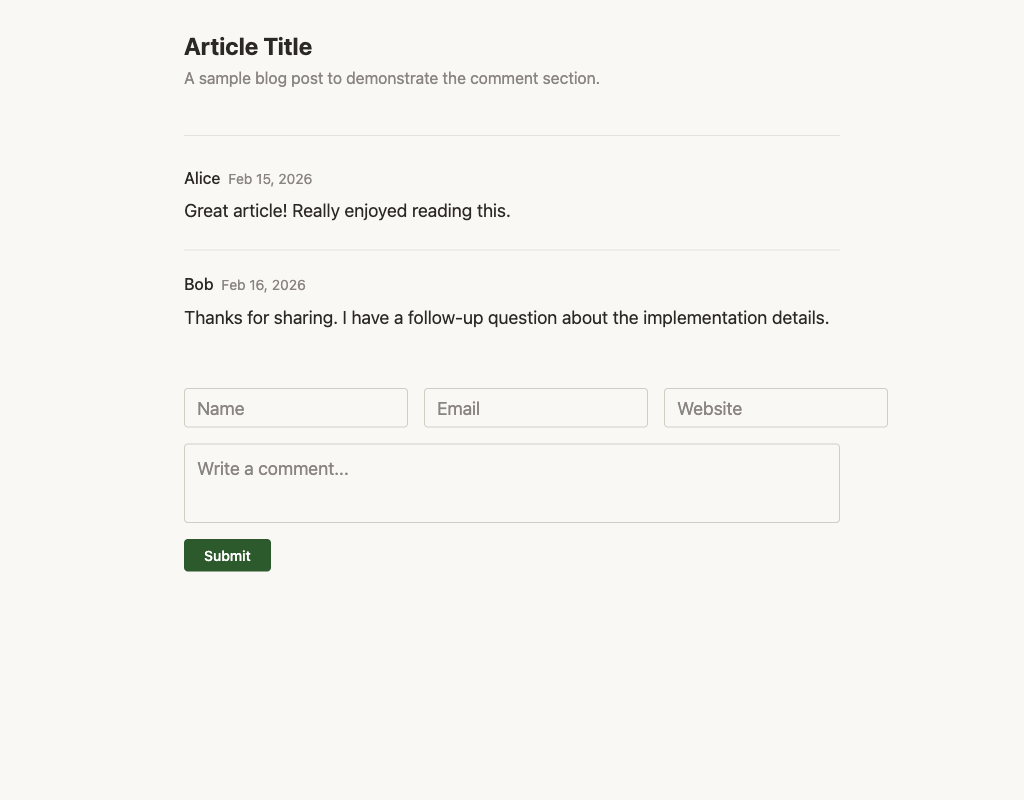
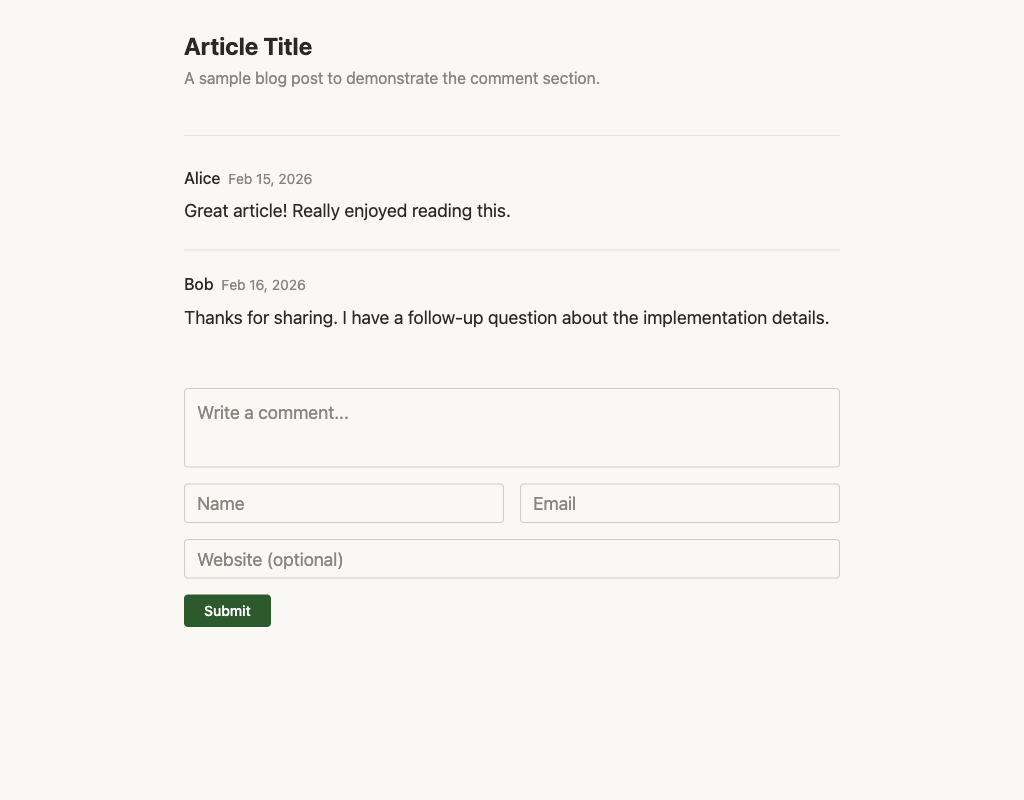
refactor(comment): textarea-first form layout with standalone website field
Redesign the Artalk comment form based on modern comment system patterns
(WordPress 4.4+, Disqus, Waline): textarea first as the primary action,
identity fields (name+email) below, and website as a full-width optional
field on its own row. This fixes the visual misalignment caused by cramming
three fields into one flex row.

diff --git a/comment/browser/moss-comments.css b/comment/browser/moss-comments.css
@@ -101,7 +101,7 @@ a.comment-author:hover {
 .comment-form-fields {
   display: flex;
   gap: var(--moss-space-sm, 1rem);
-  margin-bottom: var(--moss-space-sm, 1rem);
+  margin-top: var(--moss-space-sm, 1rem);
 }
 
 .comment-form-fields input {
@@ -124,6 +124,32 @@ a.comment-author:hover {
 }
 
 .comment-form-fields input::placeholder {
+  color: var(--moss-text-muted, #8a8580);
+}
+
+/* Full-width website field (standalone, below name+email row) */
+.comment-form-website {
+  display: block;
+  width: 100%;
+  padding: 0.5rem 0.75rem;
+  margin-top: var(--moss-space-sm, 1rem);
+  border: 1px solid var(--moss-border-medium, #d1cdc4);
+  border-radius: 4px;
+  font-family: inherit;
+  font-size: var(--moss-font-base, 1.125rem);
+  color: var(--moss-text-primary, #2c2825);
+  background: var(--moss-background, #faf8f5);
+  box-sizing: border-box;
+  transition: border-color 0.15s ease;
+}
+
+.comment-form-website:focus {
+  outline: 2px solid var(--moss-accent, #2d5a2d);
+  outline-offset: 2px;
+  border-color: var(--moss-accent, #2d5a2d);
+}
+
+.comment-form-website::placeholder {
   color: var(--moss-text-muted, #8a8580);
 }
 

diff --git a/comment/src/__tests__/render.test.ts b/comment/src/__tests__/render.test.ts
@@ -33,6 +33,20 @@ describe("renderCommentForm with provider=artalk", () => {
     // Should NOT be required — website is optional
     expect(html).not.toMatch(/name="link"[^>]*required/);
   });
+
+  it("places textarea before identity fields (textarea-first layout)", () => {
+    const html = renderCommentSection([], "posts/test/", serverUrl, submitScript, "artalk");
+    const textareaPos = html.indexOf('name="content"');
+    const namePos = html.indexOf('name="name"');
+    const emailPos = html.indexOf('name="email"');
+    expect(textareaPos).toBeLessThan(namePos);
+    expect(textareaPos).toBeLessThan(emailPos);
+  });
+
+  it('marks the website placeholder as "(optional)"', () => {
+    const html = renderCommentSection([], "posts/test/", serverUrl, submitScript, "artalk");
+    expect(html).toContain("(optional)");
+  });
 });
 
 describe("renderCommentForm with provider=waline (backward compat)", () => {

diff --git a/comment/src/render.ts b/comment/src/render.ts
@@ -147,12 +147,12 @@ function renderCommentList(comments: NormalizedComment[]): string {
 function renderCommentForm(pagePath: string, provider: string = "waline"): string {
   if (provider === "artalk") {
     return `<form class="comment-form" id="moss-comment-form">
+  <textarea id="moss-comment-text" name="content" required rows="2" placeholder="Write a comment..."></textarea>
   <div class="comment-form-fields">
     <input type="text" name="name" placeholder="Name" required>
     <input type="email" name="email" placeholder="Email" required>
-    <input type="url" name="link" placeholder="Website">
   </div>
-  <textarea id="moss-comment-text" name="content" required rows="2" placeholder="Write a comment..."></textarea>
+  <input type="url" name="link" class="comment-form-website" placeholder="Website (optional)">
   <button type="submit" class="comment-form-submit">Submit</button>
   <div class="comment-form-status" id="moss-comment-status"></div>
 </form>`;